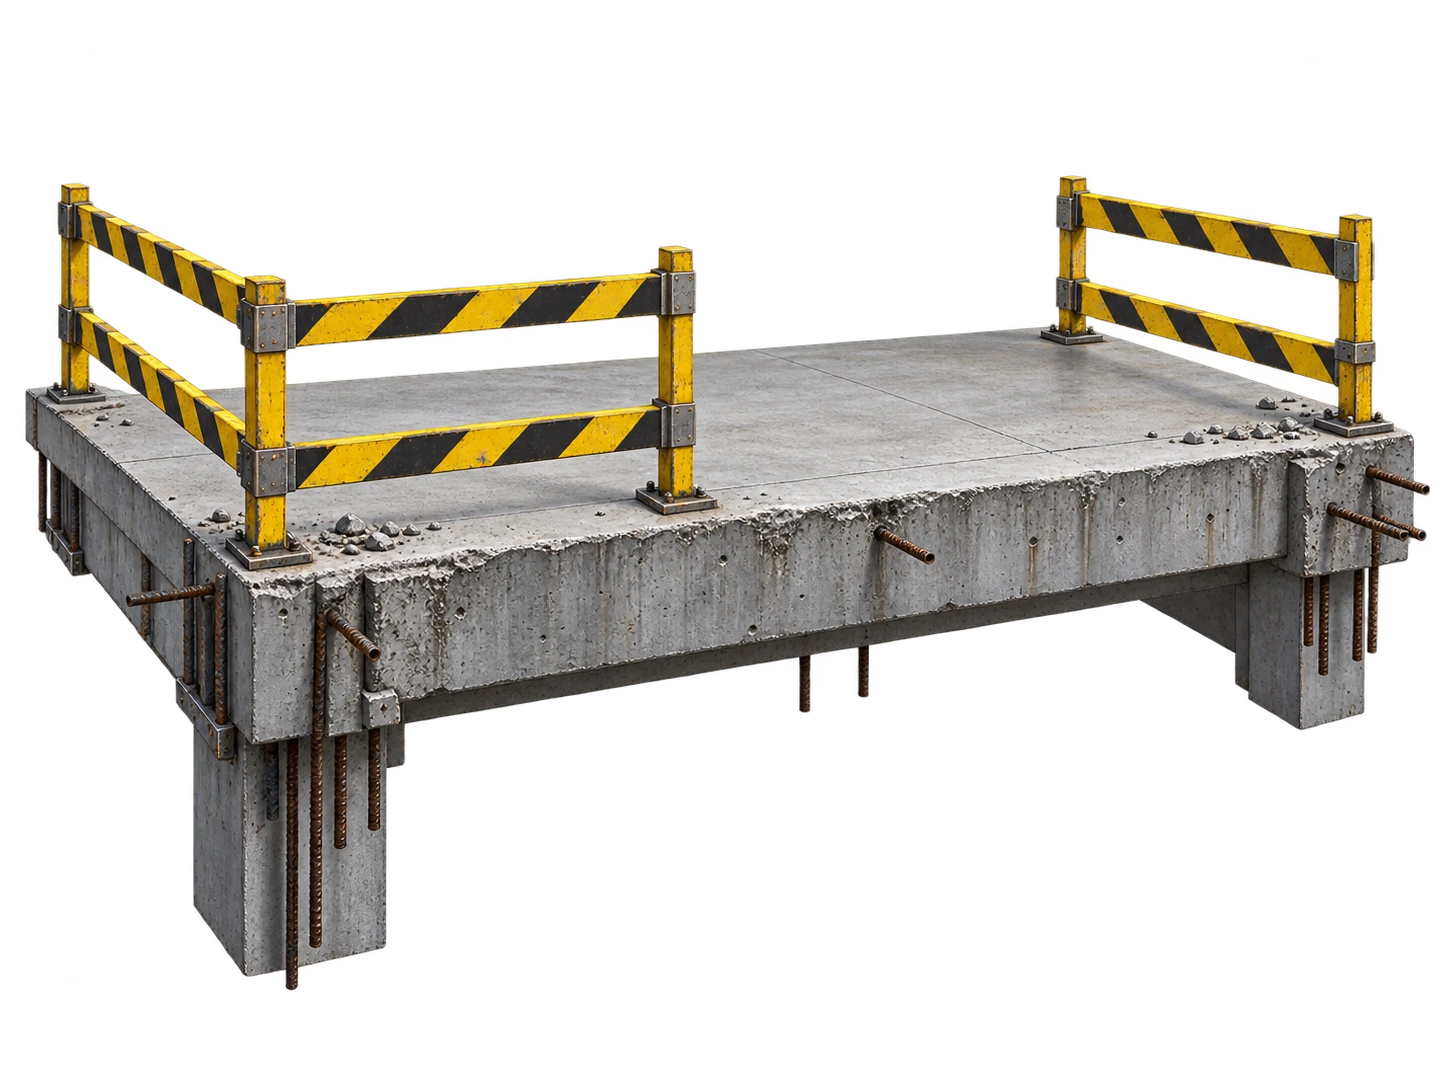
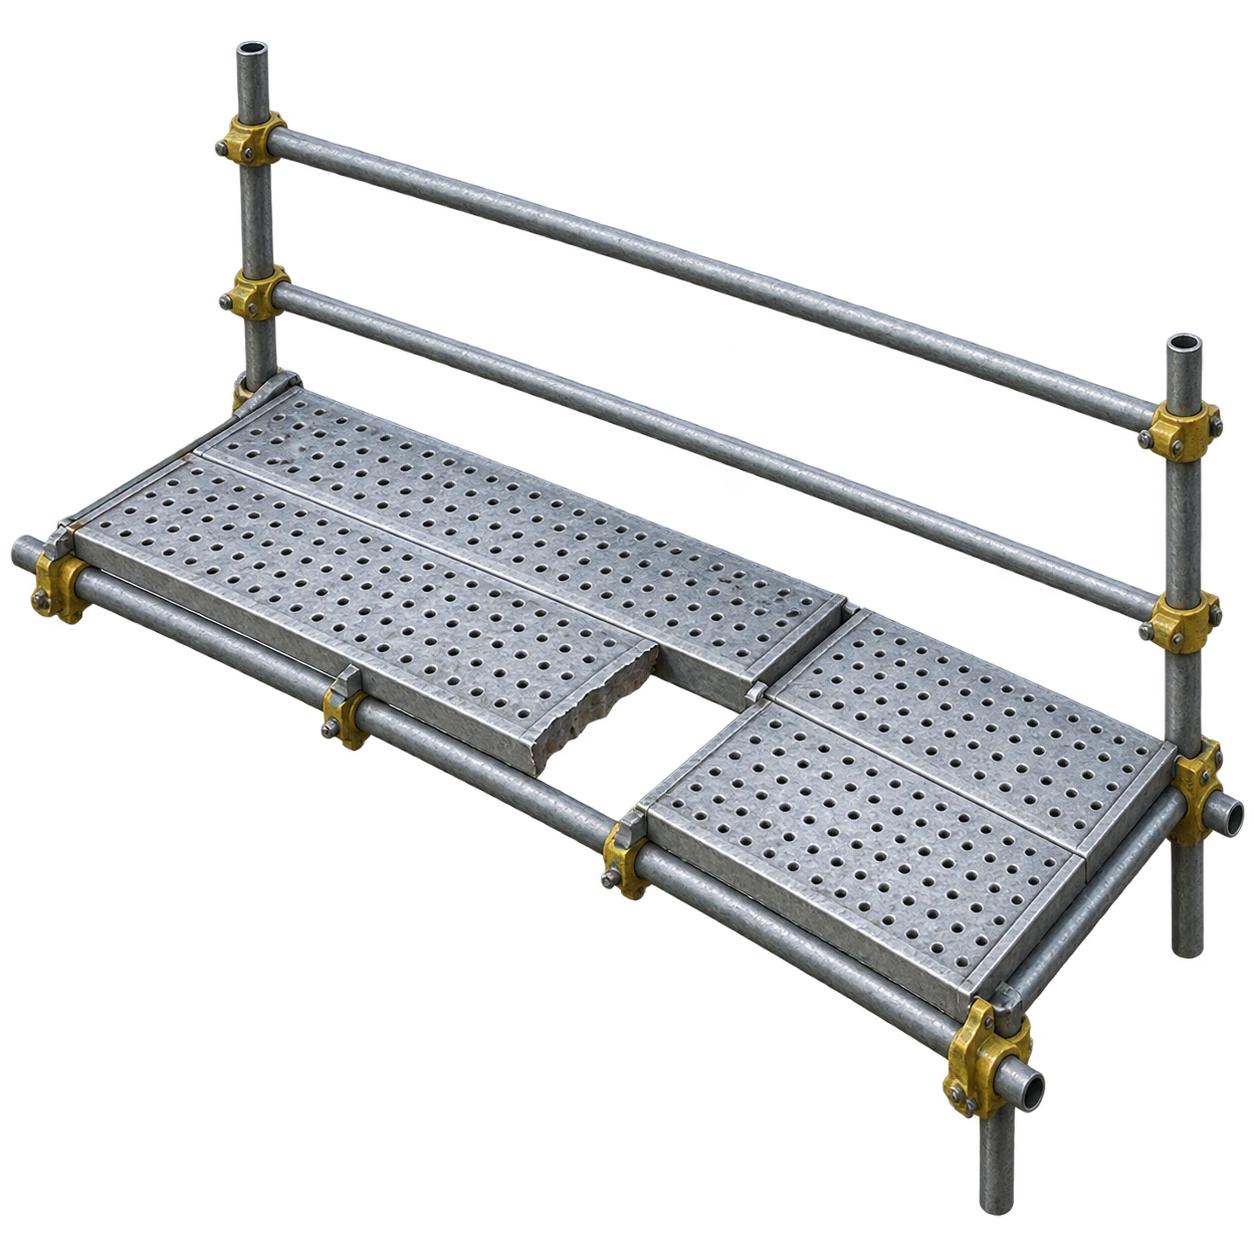
feat: complete world prop library and playable field guide

diff --git a/src/ui/GameHub.tsx b/src/ui/GameHub.tsx
@@ -5,22 +5,18 @@ import { projectEpisodeJourney } from '../app/episode-journey';
 import { characterPortraitUri, episode01BackgroundUri } from '../app/strategy-assets';
 import castPlan from '../../content/episode01/character-art-production.json';
 import { VisualImage, characterVisual } from './VisualSlot';
+import { FieldGuide } from './FieldGuide';
 import { PlayableEpisode } from './PlayableEpisode';
 
-type HubPage = 'home' | 'map' | 'people' | 'journal';
-const tabs: readonly HubPage[] = ['home', 'map', 'people', 'journal'];
+type HubPage = 'home' | 'map' | 'people' | 'journal' | 'guide';
+const tabs: readonly HubPage[] = ['home', 'map', 'people', 'journal', 'guide'];
 const featured = ['kang_taesik', 'player', 'lim_junho'] as const;
-const sceneArtIds = [
-  'ep01.scene_element.material_stack', 'ep01.scene_element.access_barrier', 'ep01.scene_element.vehicle_overlap',
-  'ep01.scene_element.harness_unclipped', 'ep01.scene_element.platform_cut_edge', 'ep01.scene_element.suspended_load',
-  'ep01.scene_element.gangform_lift_wire22', 'ep01.scene_element.exclusion_zone', 'ep01.scene_element.wet_floor', 'ep01.scene_element.open_edge',
-] as const;
-
 export function HubIcon({ kind }: { kind: HubPage | 'play' | 'lock' | 'check' }) {
   const paths = {
     home: 'M3 11 12 3l9 8M5 10v11h5v-7h4v7h5V10',
     map: 'm3 5 6-2 6 2 6-2v16l-6 2-6-2-6 2Zm6-2v16m6-14v16',
     people: 'M8 11a4 4 0 1 0 0-8 4 4 0 0 0 0 8Zm-6 10v-3a6 6 0 0 1 12 0v3m3-17a4 4 0 0 1 0 8m1 3a5 5 0 0 1 4 5v1',
+    guide: 'M12 5C8 2 4 3 2 4v16c3-2 6-2 10 0 4-2 7-2 10 0V4c-3-1-6-2-10 1Zm0 0v15',
     journal: 'M6 3h14v18H6a3 3 0 0 1-3-3V6a3 3 0 0 1 3-3Zm0 0v18m4-13h6m-6 4h6m-6 4h4',
     play: 'm8 4 12 8-12 8Z', lock: 'M6 10h12v11H6Zm2 0V6a4 4 0 0 1 8 0v4m-4 5v2', check: 'm4 12 5 5L20 6',
   };
@@ -56,7 +52,6 @@ export function GameHub({ session, onPlay }: { session: EpisodeSession; onPlay: 
   const castDetail = castPlan.characters.find(character => character.id === selectedPerson);
   const review = session.review();
   const progress = snapshot.phase === 'complete' ? 100 : snapshot.total ? Math.round(snapshot.completed / snapshot.total * 100) : 0;
-  const finalSceneArt = sceneArtIds.filter(id => Boolean(resolve(id))).length;
   const playLabel = t(snapshot.phase === 'start' ? 'ui.hub.start' : snapshot.phase === 'complete' ? 'ui.hub.results' : 'ui.hub.continue');
   return <main className={`game-hub hub-page-${page}`}>
     <VisualImage uri={episode01BackgroundUri(resolve)} alt="" className="hub-backdrop" />
@@ -87,7 +82,7 @@ export function GameHub({ session, onPlay }: { session: EpisodeSession; onPlay: 
           <VisualImage uri={characterPortraitUri(step.character, resolve)} alt="" /><span className="chapter-number">{String(index + 1).padStart(2, '0')}</span><div><small>{t(`ui.hub.step.${step.status}`)}</small><strong>{t(step.title)}</strong></div><HubIcon kind={step.status === 'done' ? 'check' : step.status === 'locked' ? 'lock' : 'play'} />
         </button>)}</div>
       </> : page === 'map' ? <>
-        <div className="hub-map-heading"><span className="hub-kicker">EPISODE 01</span><h1>{t('ep01.title')}</h1><p>{t('ui.hub.route_hint')}</p><span className="hub-art-readiness">{t('ui.hub.art_readiness').replace('{count}', String(finalSceneArt)).replace('{total}', String(sceneArtIds.length))}</span></div>
+        <div className="hub-map-heading"><span className="hub-kicker">EPISODE 01</span><h1>{t('ep01.title')}</h1><p>{t('ui.hub.route_hint')}</p></div>
         <div className="hub-route">
           <svg className="hub-route-line" viewBox="0 0 1000 440" preserveAspectRatio="none" aria-hidden="true"><path d="M150 100 L470 120 L810 155 L660 335 L300 340" /></svg>
           {journey.map((step, index) => <button className={`hub-route-node route-${index}`} key={step.id} type="button" data-status={step.status} aria-pressed={detail.id === step.id} onClick={() => setSelectedStep(step.id)}>
@@ -103,7 +98,7 @@ export function GameHub({ session, onPlay }: { session: EpisodeSession; onPlay: 
           <VisualImage uri={characterPortraitUri(character.id, resolve)} alt="" /><strong>{session.character(character.id)?.name}</strong><small>{session.character(character.id)?.role}</small>
         </button>)}</div>
         <aside className="hub-person-detail" aria-live="polite"><VisualImage uri={characterPortraitUri(selectedPerson, resolve)} alt={person?.name ?? ''} /><div><small>{person?.role}</small><h2>{person?.name}</h2><p>{t(`ui.hub.person.${selectedPerson}`)}</p>{castDetail ? <span className="hub-person-tag">{t('ui.hub.team_tag')}</span> : null}</div></aside>
-      </div> : <div className="hub-journal">
+      </div> : page === 'guide' ? <FieldGuide session={session} /> : <div className="hub-journal">
         <span className="hub-kicker">FIELD JOURNAL</span><h1>{t('ui.review.title')}</h1><p>{t('ui.review.hint')}</p>
         {review.length ? <ol>{review.map(entry => <li key={entry.key}><strong>{t(entry.event_text_id)}</strong><h2>{t(entry.choice_text_id)}</h2>{entry.result_text_id ? <p>{t(entry.result_text_id)}</p> : null}</li>)}</ol> : <div className="hub-empty"><HubIcon kind="journal" /><h2>{t('ui.hub.journal.empty')}</h2><p>{t('ui.hub.journal.empty_hint')}</p></div>}
         <button className="hub-primary" type="button" onClick={onPlay}><HubIcon kind="play" />{playLabel}</button>

diff --git a/src/ui/game-hub.css b/src/ui/game-hub.css
@@ -8,4 +8,4 @@
 @media(max-width:1000px),(max-height:560px){.game-hub{grid-template-columns:140px 1fr;grid-template-rows:62px 1fr 26px;gap:9px;padding:0 12px}.hub-header{gap:15px}.hub-brand>span{font-size:23px}.hub-brand small{font-size:9px;letter-spacing:2px}.hub-signature{font-size:22px}.hub-signature small{font-size:9px}.hub-player-status{min-width:155px;padding:4px 8px}.hub-player-status img{width:30px;height:38px}.hub-player-status strong{font-size:11px}.hub-player-status progress{width:105px}.hub-nav{gap:6px;padding-top:0}.hub-nav button{min-height:48px;padding:7px;gap:8px}.hub-nav svg{width:21px;height:21px}.hub-nav strong{font-size:14px}.hub-nav small{font-size:8px;margin-top:2px}.hub-nav-note{display:none}.hub-intro{top:4%;left:5px;max-width:40%}.hub-intro h1{font-size:26px;margin:6px 0}.hub-intro p{font-size:11px;line-height:1.5;margin:6px 0}.hub-kicker{font-size:9px;letter-spacing:1px}.hub-primary{min-height:44px;font-size:13px!important;padding:8px 12px}.hub-primary svg{width:18px;height:18px}.hub-cast{bottom:80px;left:38%}.hub-hero-person span{padding:5px 2px}.hub-hero-person strong{font-size:14px}.hub-hero-person small{font-size:8px}.hub-chapter-strip{gap:5px}.hub-chapter-strip button{height:68px;padding:7px}.hub-chapter-strip strong{font-size:11px}.hub-chapter-strip small{font-size:8px}.chapter-number{font-size:9px;top:5px;left:7px}.hub-footer{font-size:9px}.hub-footer small{font-size:8px}.hub-map-heading h1{font-size:18px;margin:2px 0}.hub-map-heading p{font-size:9px}.hub-route{inset:32px 0 80px}.hub-route-node{min-width:135px;height:48px;gap:3px}.hub-route-node img{height:44px;width:35px}.hub-route-node strong{font-size:10px;margin-top:3px}.hub-route-node small{font-size:8px}.hub-route-node svg{width:12px}.hub-route-detail{min-height:70px;padding:5px 10px;gap:8px}.hub-route-detail>img{height:60px;width:50px}.hub-route-detail h2{font-size:14px}.hub-route-detail p,.hub-route-detail small{font-size:9px;line-height:1.5}.hub-people{gap:6px}.hub-section-title h1{font-size:19px;margin:2px 0}.hub-section-title p{font-size:9px}.hub-person-grid{gap:4px}.hub-person-grid strong{font-size:11px;margin:2px 0}.hub-person-grid small{font-size:8px}.hub-person-detail>div{padding:8px}.hub-person-detail h2{font-size:18px;margin:3px 0}.hub-person-detail p{font-size:10px;line-height:1.5}.hub-person-detail small,.hub-person-tag{font-size:9px}.hub-journal{padding:12px}.hub-journal h1{font-size:21px;margin:5px 0}.hub-empty{padding:8px}.game-hub-return{width:122px;left:12px;bottom:22px;font-size:12px}}
 @media(max-width:600px) and (orientation:portrait){.game-hub{height:auto;min-height:100svh;overflow:visible;grid-template-columns:1fr;grid-template-rows:auto auto minmax(600px,1fr) auto;padding:12px}.hub-header{flex-wrap:wrap;padding-bottom:12px}.hub-signature{display:none}.hub-player-status{margin-left:auto}.hub-nav{flex-direction:row;flex-wrap:wrap}.hub-nav button{flex:1;justify-content:center;min-width:80px}.hub-nav small,.hub-nav b{display:none}.hub-nav svg{display:none}.hub-main{min-height:600px}.hub-cast{top:210px;left:0;bottom:170px}.hub-intro{max-width:100%;top:10px}.hub-chapter-strip{grid-template-columns:repeat(3,1fr)}.hub-chapter-strip button{height:74px}.hub-route{inset:90px 0 170px}.hub-route-node{min-width:120px}.route-0{left:20%}.route-2{left:80%}.hub-route-detail{flex-wrap:wrap}.hub-route-detail .hub-primary{width:100%}.hub-people{grid-template-columns:1fr;grid-template-rows:auto 260px 360px}.hub-person-detail{grid-column:1;grid-row:3}.hub-footer{padding:12px 0}.hub-footer small{display:none}}
 
-.hub-intro h1{word-break:keep-all}.hub-intro{max-width:35%}.hub-shade{background:linear-gradient(90deg,rgba(8,18,27,.96),rgba(8,18,27,.38) 65%),linear-gradient(0deg,#0b1622,transparent 70%)}.hub-art-readiness{display:inline-block;margin-top:8px;padding:5px 9px;border:1px solid #d9a14d88;border-radius:999px;background:#342717d9;color:#ffcb83;font-size:11px}
+.hub-intro h1{word-break:keep-all}.hub-intro{max-width:35%}.hub-shade{background:linear-gradient(90deg,rgba(8,18,27,.96),rgba(8,18,27,.38) 65%),linear-gradient(0deg,#0b1622,transparent 70%)}

diff --git a/src/ui/field-guide.css b/src/ui/field-guide.css
@@ -1,0 +1,8 @@
+.field-guide{height:100%;min-height:0;display:grid;grid-template-columns:minmax(180px,30%) 1fr;grid-template-rows:auto minmax(0,1fr);gap:14px}
+.field-guide>header{grid-column:1/-1}.field-guide>header h1{font-size:28px;margin:5px 0}.field-guide>header p{margin:0;font-size:12px}
+.field-guide-list{overflow:auto;min-height:0;display:flex;flex-direction:column;gap:8px;padding:4px;scrollbar-color:#7b8d9c #142331}
+.field-guide-list button{display:flex;align-items:center;gap:10px;flex-shrink:0;min-height:72px;text-align:left;padding:6px 10px;border:1px solid #acc7da50;border-radius:8px;background:#142331ee}
+.field-guide-list button[aria-pressed=true]{border-color:#ffb24c;background:#55391def}.field-guide-list img{width:62px;height:62px;object-fit:contain}.field-guide-list strong{display:block;font-size:13px;word-break:keep-all}.field-guide-list small{color:#ffbf70;font-size:10px}
+.field-guide-detail{overflow:auto;min-height:0;border:1px solid #acc7da50;border-radius:12px;background:#132332f5}.field-guide-preview{height:clamp(140px,32vh,330px);padding:14px;background:radial-gradient(ellipse,#46607380,transparent 72%);display:flex;justify-content:center}.field-guide-preview img{max-width:100%;height:100%;object-fit:contain}.field-guide-copy{padding:0 22px 22px}.field-guide-copy h2{font-size:23px;margin:8px 0 18px}.field-guide-copy h3{color:#ffbf70;font-size:12px;letter-spacing:1px;margin:0}.field-guide-copy p{font-size:14px;word-break:keep-all}.field-guide-copy>small{display:block;color:#91a9bb;font-size:10px;line-height:1.7;border-top:1px solid #acc7da30;padding-top:12px}
+@media(max-width:1000px),(max-height:560px){.field-guide{gap:6px;grid-template-columns:180px 1fr}.field-guide>header h1{font-size:19px;margin:2px 0}.field-guide>header p{font-size:10px}.field-guide-list button{min-height:54px;padding:3px 6px;gap:6px}.field-guide-list img{width:44px;height:44px}.field-guide-list strong{font-size:11px}.field-guide-preview{height:150px;padding:8px}.field-guide-copy{padding:0 12px 12px}.field-guide-copy h2{font-size:17px;margin:5px 0 12px}.field-guide-copy p{font-size:12px}.hub-nav button{flex-shrink:0}}
+@media(max-width:600px) and (orientation:portrait){.field-guide{height:600px;grid-template-columns:125px 1fr}.field-guide-list button{flex-direction:column;align-items:flex-start}.field-guide-list img{width:100%;height:68px}.field-guide-preview{height:180px}.field-guide-copy{padding:0 10px 12px}}

diff --git a/src/ui/FieldGuide.tsx b/src/ui/FieldGuide.tsx
@@ -1,0 +1,26 @@
+import { useState } from 'react';
+import type { EpisodeSession } from '../app/episode-session';
+import catalog from '../../content/episode01/scene-element-catalog.json';
+import { VisualImage } from './VisualSlot';
+import './field-guide.css';
+
+const entries = Object.entries(catalog.elements);
+
+export function FieldGuide({ session }: { session: EpisodeSession }) {
+  const [selected, setSelected] = useState(entries[0]![0]);
+  const [key, entry] = entries.find(([id]) => id === selected) ?? entries[0]!;
+  const title = session.t(`ui.guide.${key}.title`);
+  return <div className="field-guide">
+    <header><span className="hub-kicker">FIELD GUIDE / 10</span><h1>{session.t('ui.guide.title')}</h1><p>{session.t('ui.guide.intro')}</p></header>
+    <div className="field-guide-list" aria-label={session.t('ui.hub.guide')}>
+      {entries.map(([id, item], index) => <button type="button" key={id} aria-pressed={id === selected} onClick={() => setSelected(id)}>
+        <VisualImage uri={session.assetUri(item.planned_asset_id)} alt="" />
+        <span><small>{String(index + 1).padStart(2, '0')}</small><strong>{session.t(`ui.guide.${id}.title`)}</strong></span>
+      </button>)}
+    </div>
+    <article className="field-guide-detail" aria-live="polite">
+      <div className="field-guide-preview"><VisualImage uri={session.assetUri(entry.planned_asset_id)} alt={title} /></div>
+      <div className="field-guide-copy"><h2>{title}</h2><h3>{session.t('ui.guide.observe')}</h3><p>{session.t(`ui.guide.${key}.body`)}</p><small>{session.t('ui.guide.note')}</small></div>
+    </article>
+  </div>;
+}

diff --git a/tests/strategy-scene-elements.test.ts b/tests/strategy-scene-elements.test.ts
@@ -105,12 +105,11 @@ describe('Episode 01 reusable scene element catalog', () => {
     expect(projectEpisode01SceneElements('e01_04_junho_signal')).toEqual([]);
   });
 
-  it('keeps future scaffold/lifting hazards planned instead of pretending they are current Episode 01 assets', () => {
-    expect(catalog.elements.harness_unclipped.production_status).toBe('planned');
-    expect(catalog.elements.platform_cut_edge.production_status).toBe('planned');
-    expect(catalog.elements.suspended_load.production_status).toBe('planned');
-    expect(catalog.elements.gangform_lift_wire22.production_status).toBe('planned');
-    expect(catalog.elements.exclusion_zone.production_status).toBe('planned');
+  it('makes all ten props available without inserting future hazards into current events', () => {
+    expect(Object.values(catalog.elements)).toHaveLength(10);
+    expect(Object.values(catalog.elements).every(element => element.production_status === 'final')).toBe(true);
+    const placed = Object.values(catalog.event_elements).flat().map(element => element.element_key);
+    expect(placed).toEqual(['material_stack', 'material_stack']);
   });
 
   it('locks the fall-protection visual to a brand-neutral twin-Y full-body harness', () => {

diff --git a/tests/game-hub.test.tsx b/tests/game-hub.test.tsx
@@ -27,6 +27,12 @@ describe('game hub navigation', () => {
       expect(host.querySelectorAll('.hub-person-grid button')).toHaveLength(8);
       click('.hub-person-grid button:last-child');
       expect(host.querySelector('.hub-person-detail')?.textContent).toContain(session.character('oh_seungjae')!.name);
+      click('.hub-nav button:nth-child(5)');
+      expect(host.querySelectorAll('.field-guide-list button')).toHaveLength(10);
+      click('.field-guide-list button:last-child');
+      expect(host.querySelector('.field-guide-detail h2')?.textContent).toBe(session.t('ui.guide.open_edge.title'));
+      expect(host.querySelector('.field-guide-preview img')?.getAttribute('src')).toContain('open-edge.webp');
+      expect(host.querySelectorAll('.field-guide-list img')).toHaveLength(10);
       expect(JSON.stringify(session.getSnapshot().state)).toBe(saved);
     } finally { act(() => root.unmount()); }
   });

diff --git a/tests/strategy-assets.test.ts b/tests/strategy-assets.test.ts
@@ -95,7 +95,7 @@ describe('Episode 01 strategy visual assets', () => {
   it('uses integrated production art through the registry without changing asset identities', () => {
     const registry = createEpisode01Registry();
     const content = registry.getValidatedContent();
-    expect(content.asset_manifest.assets).toHaveLength(20);
+    expect(content.asset_manifest.assets).toHaveLength(27);
 
     expect(registry.getAsset('ep01.background.foundation.map')?.variants[0]?.uri)
       .toBe('assets/episode01/backgrounds/foundation-map.webp');

diff --git a/docs/FIELD-GUIDE-INTEGRATION-2026-09-18.md b/docs/FIELD-GUIDE-INTEGRATION-2026-09-18.md
@@ -1,0 +1,26 @@
+# 현장 도감 통합
+
+## 구현
+- 소품 10종을 모두 투명 WebP로 등록하고 현장 도감의 선택 목록과 큰 미리보기에 연결했다.
+- 새 원화: 일반 중량물, 갱폼, 금속 작업발판, 통제선, 젖은 바닥. 기존 콘크리트 단부 원화는 개구부·단부 슬롯으로 이동했다.
+- 모든 설명은 한국어 로컬라이제이션에 저장했다. 관찰 질문을 통해 이미지에 보이는 것과 추가 확인이 필요한 정보를 구분한다.
+- 플레이 화면의 개발용 아트 제작률 표시는 제거했다.
+- 도감 탐색은 게임 진행과 저장 상태를 변경하지 않는다.
+
+## 연결 범위
+10종은 도감에서 실제 열람 가능하다. Episode 01 사건 맵의 자재 배치 두 곳은 유지했다. 제작 완료를 이유로 비계나 갱폼을 무관한 기초공사 사건에 삽입하지 않았다.
+
+## 남은 검토
+기술 게이트는 파일 크기, 투명도, 자산 등록을 확인한다. 공학적 정확성이나 상업 출시 적합성을 증명하지 않는다. 안전대의 Y 분기 연결과 양중 훅 상단 여백, 슬링 체결 형상은 후속 시각 검토 대상이다. 이미지의 와이어 직경은 실측 가능한 증거가 아니다.
+다음 작업은 표정·동작 변형과 사건별 연결, 외부 플레이테스트다. 현재 결과는 로컬 개발본이며 공개 배포는 하지 않았다.
+
+## 제작 자료
+원화 출처는 scene-element-catalog.json의 art.source에 기록했다. 최종 WebP는 public/assets/episode01/scene-elements에 버전 관리된다. 게임 실행과 빌드에는 로컬 원본 PNG가 필요하지 않다.
+생성 프롬프트는 PROP-ART-PROMPTS-2026-09-18.json에 보존했다.
+
+## 검증 결과
+- Vitest: 59개 파일, 397개 테스트 통과. 도감 선택 후 게임 상태 보존과 10종 이미지 연결 포함.
+- 소품 production check: 10/10 투명 WebP 통과.
+- TypeScript 검사, Vite 빌드, 한국어 문구 검사 통과.
+- 브라우저: 854×393 및 1280×720에서 항목 선택 확인, 이미지 11개(목록 10 + 미리보기 1) 로드 성공, 가로 넘침 없음, 콘솔 경고·오류 없음.
+- 빌드의 기존 500KB 초과 청크 경고는 남아 있음(주 JS 610.76KB, gzip 163.38KB). 후속 성능 작업 대상.

diff --git a/docs/PRODUCTION-CONTROL-BOARD.md b/docs/PRODUCTION-CONTROL-BOARD.md
@@ -6,7 +6,7 @@ Updated: 2026-09-18
 
 Character Batch A and B are integrated: 16/16 WebP files, with 17/17 background + character technical art gates passing. The prior pending-art entries below are historical specifications, not the current queue. The active work is P4 world props, followed by expression/action variants and player validation. See [integration report](PRODUCTION-INTEGRATION-2026-09-18.md).
 
-Home, five checkpoint map, eight-person roster, choice journal and resume navigation are implemented. Public production deployment is not part of this local delivery.
+Home, five checkpoint map, eight-person roster, choice journal, resume navigation and a ten-prop field guide are implemented. All ten prop files pass technical checks. Rigging geometry still needs visual review before release; file readiness is not safety validation. See [field guide integration](FIELD-GUIDE-INTEGRATION-2026-09-18.md). Public production deployment is not part of this local delivery.
 
 This is the current operational source of truth for finishing Episode 01.
 
